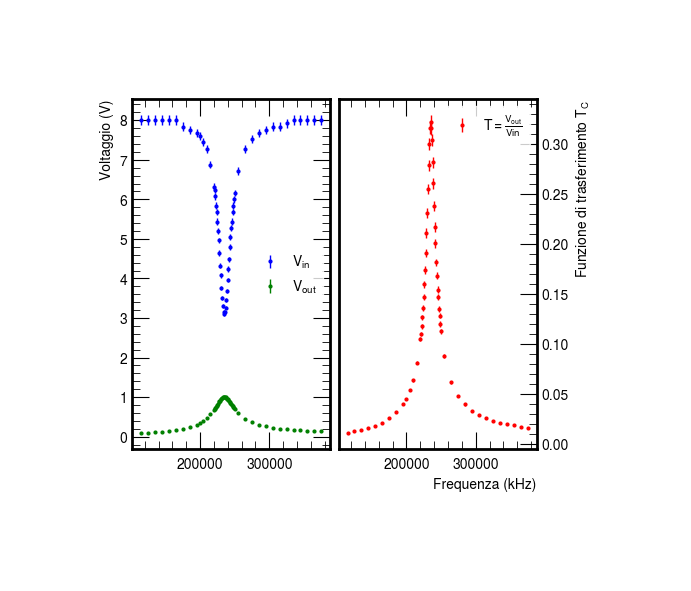
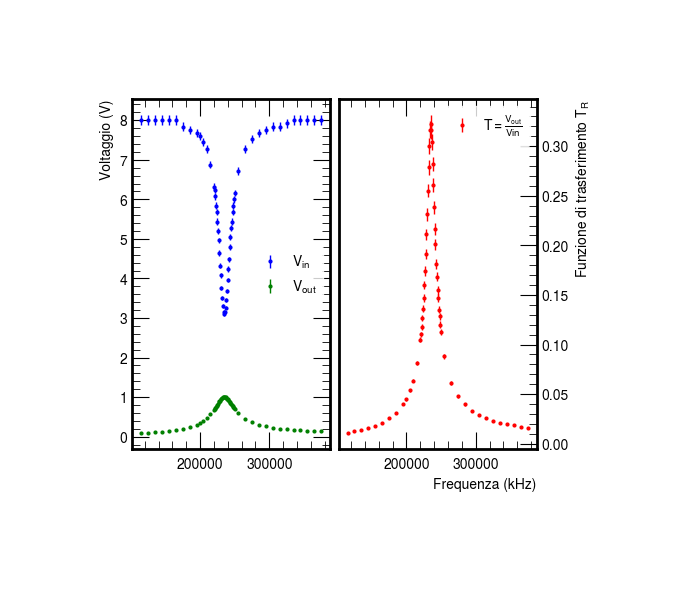
RLC

diff --git a/RLC freq/mari/capiR.py b/RLC freq/mari/capiR.py
@@ -6,11 +6,12 @@ import mplhep as hep
 from cycler import cycler
 import matplotlib.colors as colors
 import multiprocessing.pool
-import pandas as pd
+
 
 # settaggio globale grafici    
 #print(plt.style.available)
 #plt.style.use('classic')
+'''
 plt.style.use(hep.style.ROOT)
 params = {'legend.fontsize': '10',
          'legend.loc': 'upper right',
@@ -39,7 +40,7 @@ params = {'legend.fontsize': '10',
           }
 plt.rcParams.update(params)
 plt.rcParams['axes.prop_cycle'] = cycler(color=['b','g','r','c','m','y','k'])
-
+'''
 # Enable debug mode
 DEB = False
 
@@ -48,13 +49,13 @@ DEB = False
 
 
 def fitf_C(x, A, B, C):
-    omega = 2.0 * np.pi * x # input in kHz
+    omega = 2.0 * np.pi * x * 1e3  # input in kHz
     fitval = A / np.sqrt((1-omega**2/B**2)**2+1/C**2*omega**2/B**2)
     return fitval
 
 def fitf_R(x, A, B, C):
     omega = 2.0 * np.pi * x * 1e3  # input in kHz
-    fitval = A / np.sqrt(1+C**2*(omega**2/B**2-B**2/omega**2)**2)
+    fitval = A / np.sqrt(1+C**2*(omega/B-B/omega)**2)
     return fitval
 
 def fitchi2(i,j,k):
@@ -64,7 +65,7 @@ def fitchi2(i,j,k):
     AA,BB,CC = A_chi[i],B_chi[j],C_chi[k]
     omega = 2.0 * np.pi * x * 1e3  # input in kHz
     residuals = (y -  fitf_R(x,AA,BB,CC))  # Seleziono fit su R
- #   residuals = (y -  fitf_C(x,AA,BB,CC))  # Seleziono fit su C
+#    residuals = (y -  fitf_C(x,AA,BB,CC))  # Seleziono fit su C
     chi2 = np.sum((residuals/y_err)**2)
     mappa[i,j,k] = chi2
 
@@ -103,19 +104,18 @@ NJ = 20
 NK = 20
 
 # Input file name
-#file = 'passabasso'   # seleziono per fit su C
-file = 'passabanda'   # seleziono per fit su R
-#inputname = './Analisi RLC in frequenza Python/'+file+'.txt'
-inputname= file+'.txt'
+# file = 'RLC_Cres'   # seleziono per fit su C
+file = 'RLC_Rres'   # seleziono per fit su R
+inputname = file+'.txt'
 
 # Frequency limits for the fit function (in kHz)
 frfit0 = 10.0
 frfit1 = 100.0
 
 # Initial parameter values
-Ainit= 1
+Ainit= 0.3
 Binit =  2.0 * np.pi *233000.  # Hz
-Cinit = 10. # Hz
+Cinit = 20. # Hz
 
 # Assumed reading errors
 letturaV = 0.1*0.41
@@ -123,34 +123,27 @@ errscalaV = 0.03*0.41
 
 
 #### LOAD DATA
-df = pd.read_csv(inputname, delimiter='\t', decimal='.')
-fr = np.array(df['f_(kHz)'].values * 1e3)  # f in Hz
-Vin = np.array(df['Vin_(V)'].values)
-Vo = np.array(df['Vout_(mV)'].values* 1e-3)
-A = Vo / Vin  
-#phi = 2*np.pi*fr*np.array(df['Dt_(ns)'].values[:]*1e-9)
-Vdiv_in = np.array(df['scala_Vin_(mV)'].values*1e-3)[:] #divisioni-FS del Vin
-VdivC = np.array(df['scala_Vout_(mV)'].values*1e-3)[:] #divisioni-FS del Vout
-'''
+    
+
 # Read data from the input file
 data = np.loadtxt(inputname)
 fr = data[:, 0] #frequenze
 Vin = data[:, 1] #Vin
-Vo = data[:, 2] #Vout
-Vdiv_in = data[:, 3] #divisioni-FS del Vin
-VdivC = data[:, 4] #divisioni-FS del Vout
-'''
+Vo = data[:, 3]*10**-3 #Vout
+Vdiv_in = data[:, 2]*10**-3 #divisioni-FS del Vin
+VdivR = data[:, 4]*10**-3 #divisioni-FS del Vout
+
 # Number of points to fit
 # va a contare il numero di frequenze nel vettore fr che siano maggiori di zero
 N = len(fr[fr > 0])
 
 # Calculate errors on x and y
-eVo = np.sqrt((letturaV * VdivC)**2 + (errscalaV * Vo)**2)
+eVo = np.sqrt((letturaV * VdivR)**2 + (errscalaV * Vo)**2)
 eVin = np.sqrt((letturaV * Vdiv_in)**2 + (errscalaV * Vin)**2)
 
 # Calculate the transfer function
 TR = Vo / Vin
-eTR = TR * np.sqrt((eVo / Vo)**2 + (eVin / Vin)**2) 
+eTR = TR * np.sqrt((eVo / Vo)**2 + (eVin / Vin)**2+ 2 * (errscalaV**2))
 
 # Plot Vin and Vout vs. f e the transfer function vs. f
 
@@ -162,7 +155,7 @@ ax[0].set_ylabel(r'Voltaggio (V)')
 
 ax[1].errorbar(fr,TR,yerr=eTR, fmt='o', label=r'$T=\frac{V_{out}}{V{in}}$',ms=2,color='red')
 ax[1].legend(prop={'size': 10}, loc='best')
-ax[1].set_ylabel(r'Funzione di trasferimento $T_C$')
+ax[1].set_ylabel(r'Funzione di trasferimento $T_R$')
 ax[1].set_xlabel(r'Frequenza (kHz)')
 ax[1].yaxis.set_ticks_position('right')
 ax[1].yaxis.set_label_position('right')
@@ -181,8 +174,8 @@ plt.show()
 
 # Perform the fit
 
-#popt, pcov = curve_fit(fitf_C, fr, TR, p0=[Ainit, Binit, Cinit], method='lm', sigma=eTR, absolute_sigma=True)
-popt, pcov = curve_fit(fitf_R, fr, TR, p0=[Ainit, Binit, Cinit], sigma=eTR, absolute_sigma=True, maxfev=10000)
+popt, pcov = curve_fit(fitf_R, fr, TR, p0=[Ainit, Binit, Cinit], method='lm', sigma=eTR, absolute_sigma=True)
+
 """
 POPT: Vettore con la stima dei parametri dal fit
 PCOV: Matrice delle covarianze
@@ -209,7 +202,7 @@ ax[0].plot(x_fit, fitf_R(x_fit, *popt), label='Fit', linestyle='--', color='blac
 ax[0].plot(x_fit,fitf_R(x_fit,Ainit,Binit,Cinit), label='init guess', linestyle='dashed', color='green')
 ax[0].errorbar(fr,TR,yerr=eTR, fmt='o', label=r'$T=\frac{V_{out}}{V{in}}$',ms=2,color='red')
 ax[0].legend(loc='upper left')
-ax[0].set_ylabel(r'Funzione di trasferimento $T_C$')
+ax[0].set_ylabel(r'Funzione di trasferimento $T_R$')
 #ax[0].set_xticks([20,30,40,50])
 
 ax[1].errorbar(fr,residuA,yerr=eTR, fmt='o', label=r'Residui$',ms=2,color='red')
@@ -311,7 +304,7 @@ ax[0].plot(x_fit, fitf_R(x_fit, A_chi[argchi2_min[0]],B_chi[argchi2_min[1]],C_ch
 #ax[0].plot(x_fit,fitf2(x_fit,Ainit,Binit,Cinit), label='init guess', linestyle='dashed', color='green')
 ax[0].errorbar(fr,TR,yerr=eTR, fmt='o', label=r'$V_{out}$',ms=2,color='red')
 ax[0].legend(loc='upper left')
-ax[0].set_ylabel(r'Funzione di trasferimento $T_C$')
+ax[0].set_ylabel(r'Funzione di trasferimento $T_R$')
 #ax[0].set_xticks([20,30,40,50])
 
 ax[1].errorbar(fr,residuA,yerr=eTR, fmt='o', label=r'Residui$',ms=2,color='red')
@@ -440,3 +433,6 @@ plt.savefig(file+'_4'+'.png',
             dpi = 100)
 
 plt.show()
+
+
+
